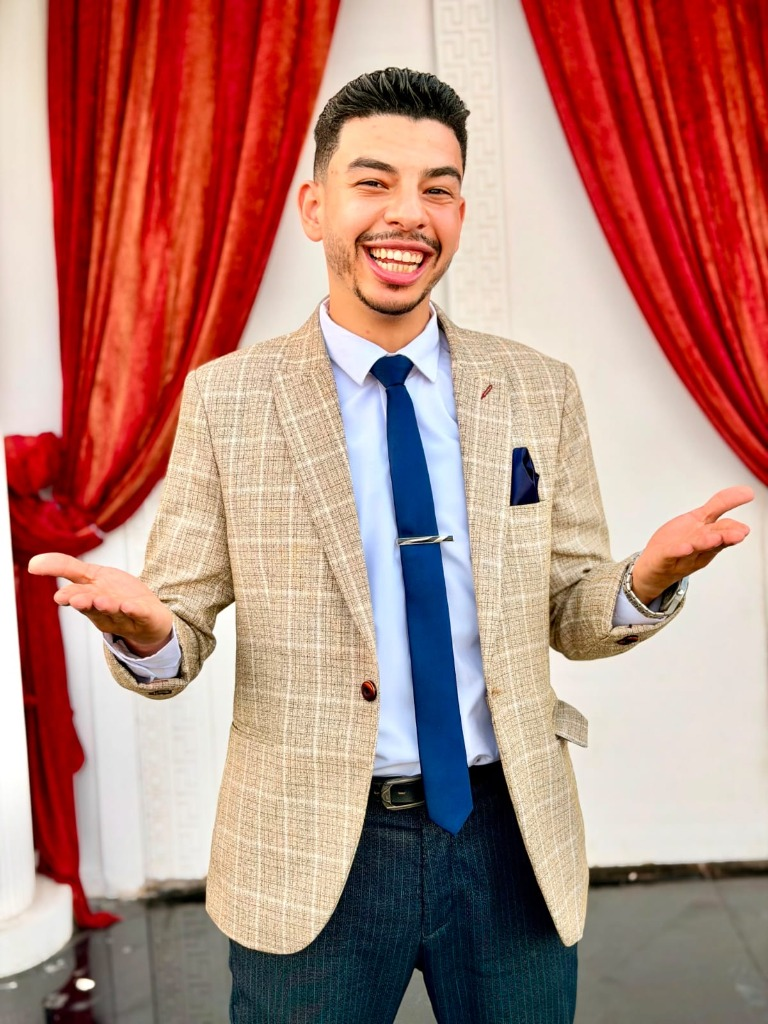
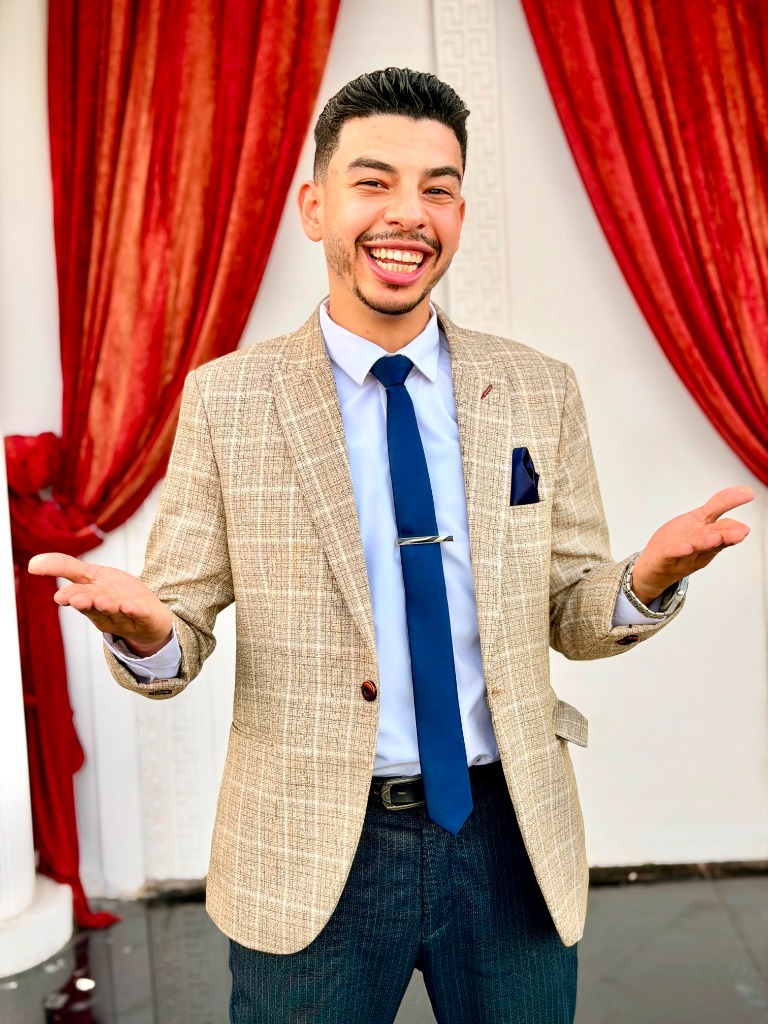
feat(staff): update login hero with authentic teacher photo and clean split layout

Changed region(s): [[0.375, 0.5, 0.4062, 0.5312], [0.3438, 0.4375, 0.375, 0.4688]]

diff --git a/apps/staff/src/app/staff/login/page.tsx b/apps/staff/src/app/staff/login/page.tsx
@@ -107,36 +107,9 @@ export default function StaffLoginPage() {
       dir={dir}
       className="min-h-screen w-full bg-[#f4f7f5] dark:bg-[#0c1311] flex flex-col lg:flex-row items-stretch overflow-x-hidden font-cairo transition-colors duration-300"
     >
-      {/* Visual / Photo Area (Desktop: 55% Left Panel | Mobile: Top 32vh Banner) */}
-      <section className="relative w-full lg:w-[55%] h-[32vh] sm:h-[38vh] lg:h-auto lg:min-h-screen flex-shrink-0 overflow-hidden bg-neutral-900">
-        <Image
-          src="/images/mr-omar-hero.jpg"
-          alt="Mr. Omar Makawy - English Platform"
-          fill
-          priority
-          sizes="(max-width: 1024px) 100vw, 55vw"
-          className="object-cover object-top lg:object-center select-none"
-        />
-
-        {/* Soft atmospheric gradient overlay */}
-        <div className="absolute inset-0 bg-gradient-to-t from-black/50 via-transparent to-black/15 lg:bg-gradient-to-r lg:from-transparent lg:to-black/30 pointer-events-none" />
-
-        {/* Floating subtle mobile badge */}
-        <div className="absolute top-4 start-4 lg:hidden z-10">
-          <div className="flex items-center gap-2 px-3 py-1.5 rounded-xl bg-black/40 backdrop-blur-md border border-white/15 text-white shadow-lg">
-            <span className="flex h-6 w-6 items-center justify-center rounded-lg bg-[#064e3b] text-white font-bold text-xs">
-              OM
-            </span>
-            <span className="text-xs font-bold tracking-tight">
-              {isAr ? 'منصة مستر عمر مكاوي' : 'Mr. Omar Makawy'}
-            </span>
-          </div>
-        </div>
-      </section>
-
-      {/* Right / Login Form Area (Desktop: 45% Right Panel | Mobile: Scrollable Bottom Section) */}
-      <section className="relative w-full lg:w-[45%] flex-1 flex flex-col justify-center items-center px-4 py-8 sm:px-8 lg:px-12 xl:px-16 overflow-hidden">
-        {/* Soft Organic Background Accents (Light Emerald/Mint) */}
+      {/* Left / Login Form Area (Desktop: Left | Mobile: Bottom) */}
+      <section className="order-2 lg:order-1 relative w-full lg:w-[48%] xl:w-[45%] flex-1 flex flex-col justify-center items-center px-4 py-8 sm:px-8 lg:px-10 xl:px-14 overflow-hidden">
+        {/* Soft Organic Background Accents (Emerald / Mint) */}
         <div
           aria-hidden="true"
           className="pointer-events-none absolute -top-16 -left-16 h-72 w-72 rounded-full bg-emerald-200/35 dark:bg-emerald-950/20 blur-3xl"
@@ -145,20 +118,6 @@ export default function StaffLoginPage() {
           aria-hidden="true"
           className="pointer-events-none absolute -bottom-20 -right-20 h-80 w-80 rounded-full bg-emerald-300/25 dark:bg-emerald-900/15 blur-3xl"
         />
-
-        {/* Decorative corner curve for authentic reference feel */}
-        <div
-          aria-hidden="true"
-          className="pointer-events-none absolute top-0 start-0 w-32 h-32 opacity-40 dark:opacity-10 overflow-hidden"
-        >
-          <div className="w-48 h-48 rounded-full bg-gradient-to-br from-emerald-100 to-transparent -translate-x-16 -translate-y-16" />
-        </div>
-        <div
-          aria-hidden="true"
-          className="pointer-events-none absolute bottom-0 start-0 w-36 h-36 opacity-40 dark:opacity-10 overflow-hidden"
-        >
-          <div className="w-56 h-56 rounded-full bg-gradient-to-tr from-emerald-100 to-transparent -translate-x-20 translate-y-20" />
-        </div>
 
         {/* Main Authentication Card */}
         <div className="relative z-10 w-full max-w-md mx-auto rounded-3xl bg-white/95 dark:bg-[#141d1a]/95 backdrop-blur-md border border-neutral-200/80 dark:border-emerald-950/60 shadow-xl shadow-emerald-950/5 dark:shadow-black/40 p-6 sm:p-9 transition-all">
@@ -322,6 +281,43 @@ export default function StaffLoginPage() {
           <div className="mt-6 pt-4 border-t border-neutral-100 dark:border-neutral-800/80 flex items-center justify-center gap-1.5 text-[11px] text-neutral-400 dark:text-neutral-500 font-medium">
             <ShieldCheck className="h-3.5 w-3.5 text-emerald-600 dark:text-emerald-500" />
             <span>{isAr ? 'نظام تشفير موحد للكادر الإداري' : 'Encrypted Administrative Session'}</span>
+          </div>
+        </div>
+      </section>
+
+      {/* Right / Teacher Visual Hero Area (Desktop: Right | Mobile: Top) */}
+      <section className="order-1 lg:order-2 relative w-full lg:w-[52%] xl:w-[55%] min-h-[38vh] sm:min-h-[44vh] lg:min-h-screen flex items-center justify-center bg-gradient-to-b from-[#091f18] via-[#0c2e24] to-[#061813] p-4 sm:p-6 lg:p-8 overflow-hidden select-none">
+        {/* Subtle Atmospheric Backdrop Glows */}
+        <div
+          aria-hidden="true"
+          className="pointer-events-none absolute inset-0 bg-[radial-gradient(circle_at_center,_var(--tw-gradient-stops))] from-emerald-600/15 via-transparent to-transparent blur-2xl"
+        />
+        <div
+          aria-hidden="true"
+          className="pointer-events-none absolute top-1/4 -right-16 w-96 h-96 rounded-full bg-emerald-500/10 blur-3xl"
+        />
+
+        {/* Authentic Teacher Photo — Clean Full Presentation */}
+        <div className="relative z-10 w-full h-[36vh] sm:h-[42vh] lg:h-[88vh] max-h-[960px] flex items-center justify-center">
+          <Image
+            src="/images/mr-omar-hero.jpg"
+            alt="Mr. Omar Makawy"
+            fill
+            priority
+            sizes="(max-width: 1024px) 100vw, 55vw"
+            className="object-contain object-center drop-shadow-2xl"
+          />
+        </div>
+
+        {/* Floating Brand Badge (Top-Corner) */}
+        <div className="absolute top-4 start-4 z-20">
+          <div className="flex items-center gap-2 px-3 py-1.5 rounded-xl bg-black/45 backdrop-blur-md border border-white/10 text-white shadow-lg">
+            <span className="flex h-6 w-6 items-center justify-center rounded-lg bg-[#064e3b] text-white font-bold text-xs">
+              OM
+            </span>
+            <span className="text-xs font-bold tracking-tight">
+              {isAr ? 'منصة مستر عمر مكاوي' : 'Mr. Omar Makawy Platform'}
+            </span>
           </div>
         </div>
       </section>
